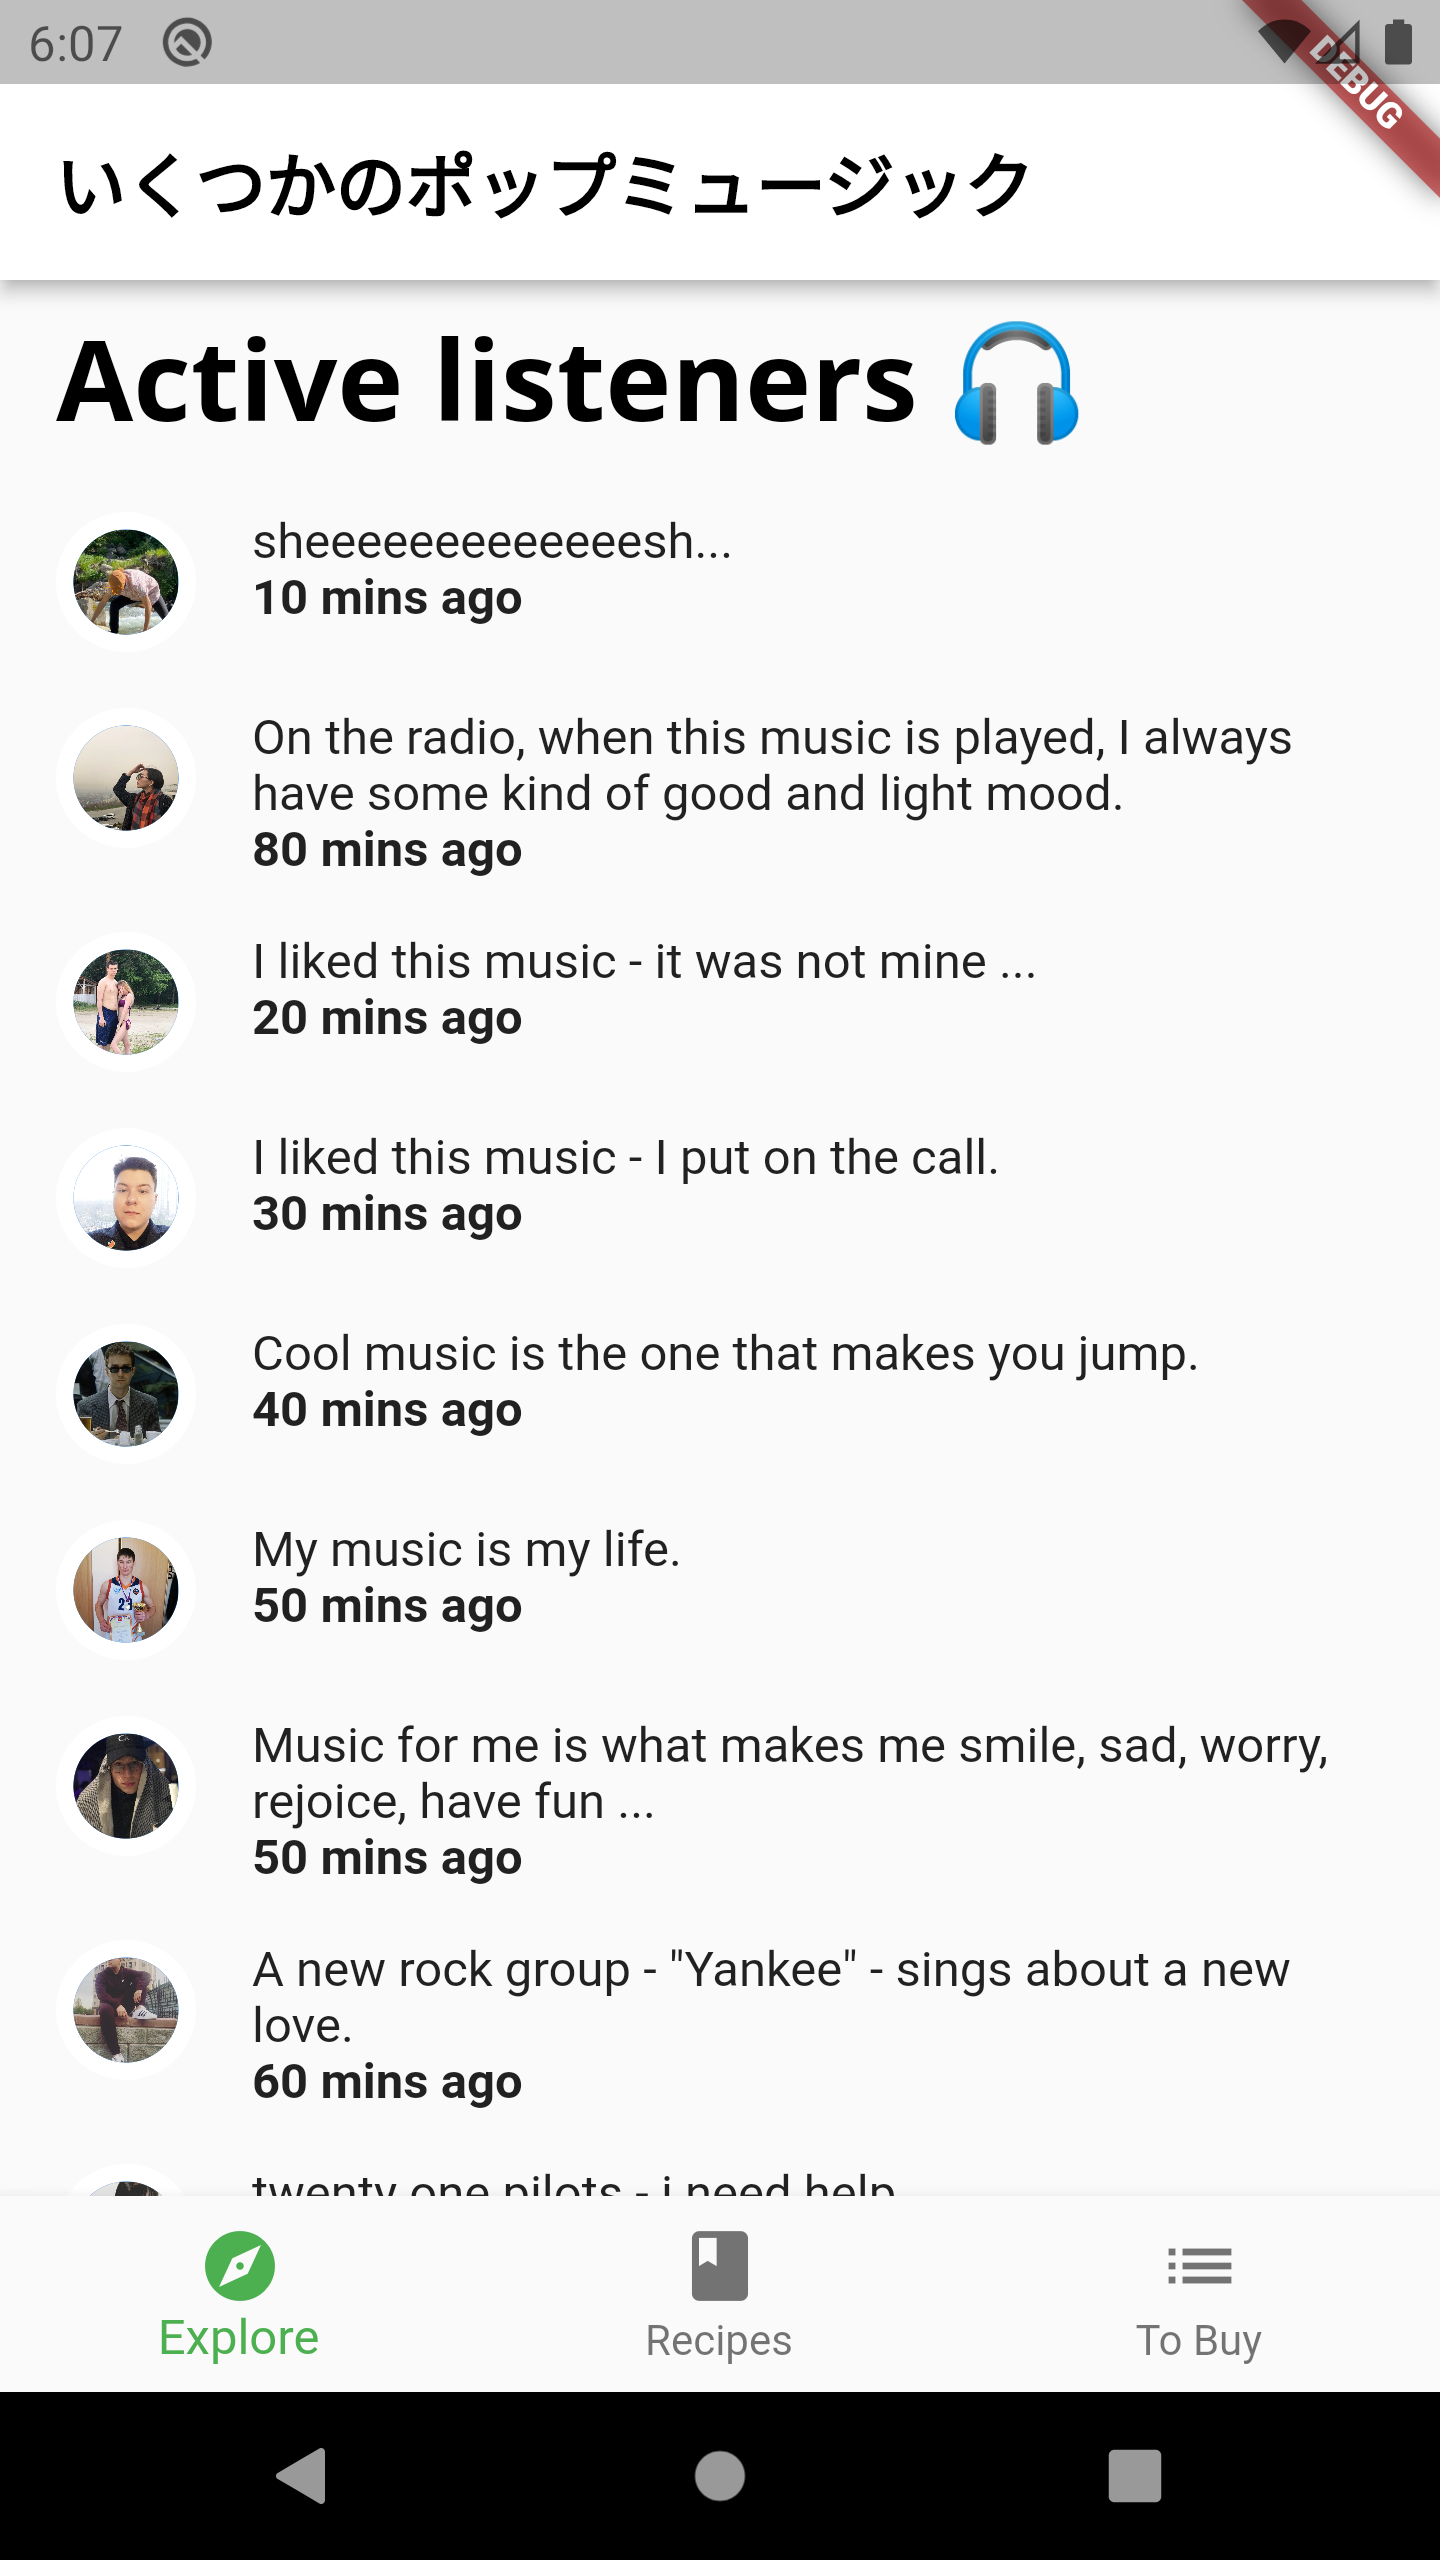
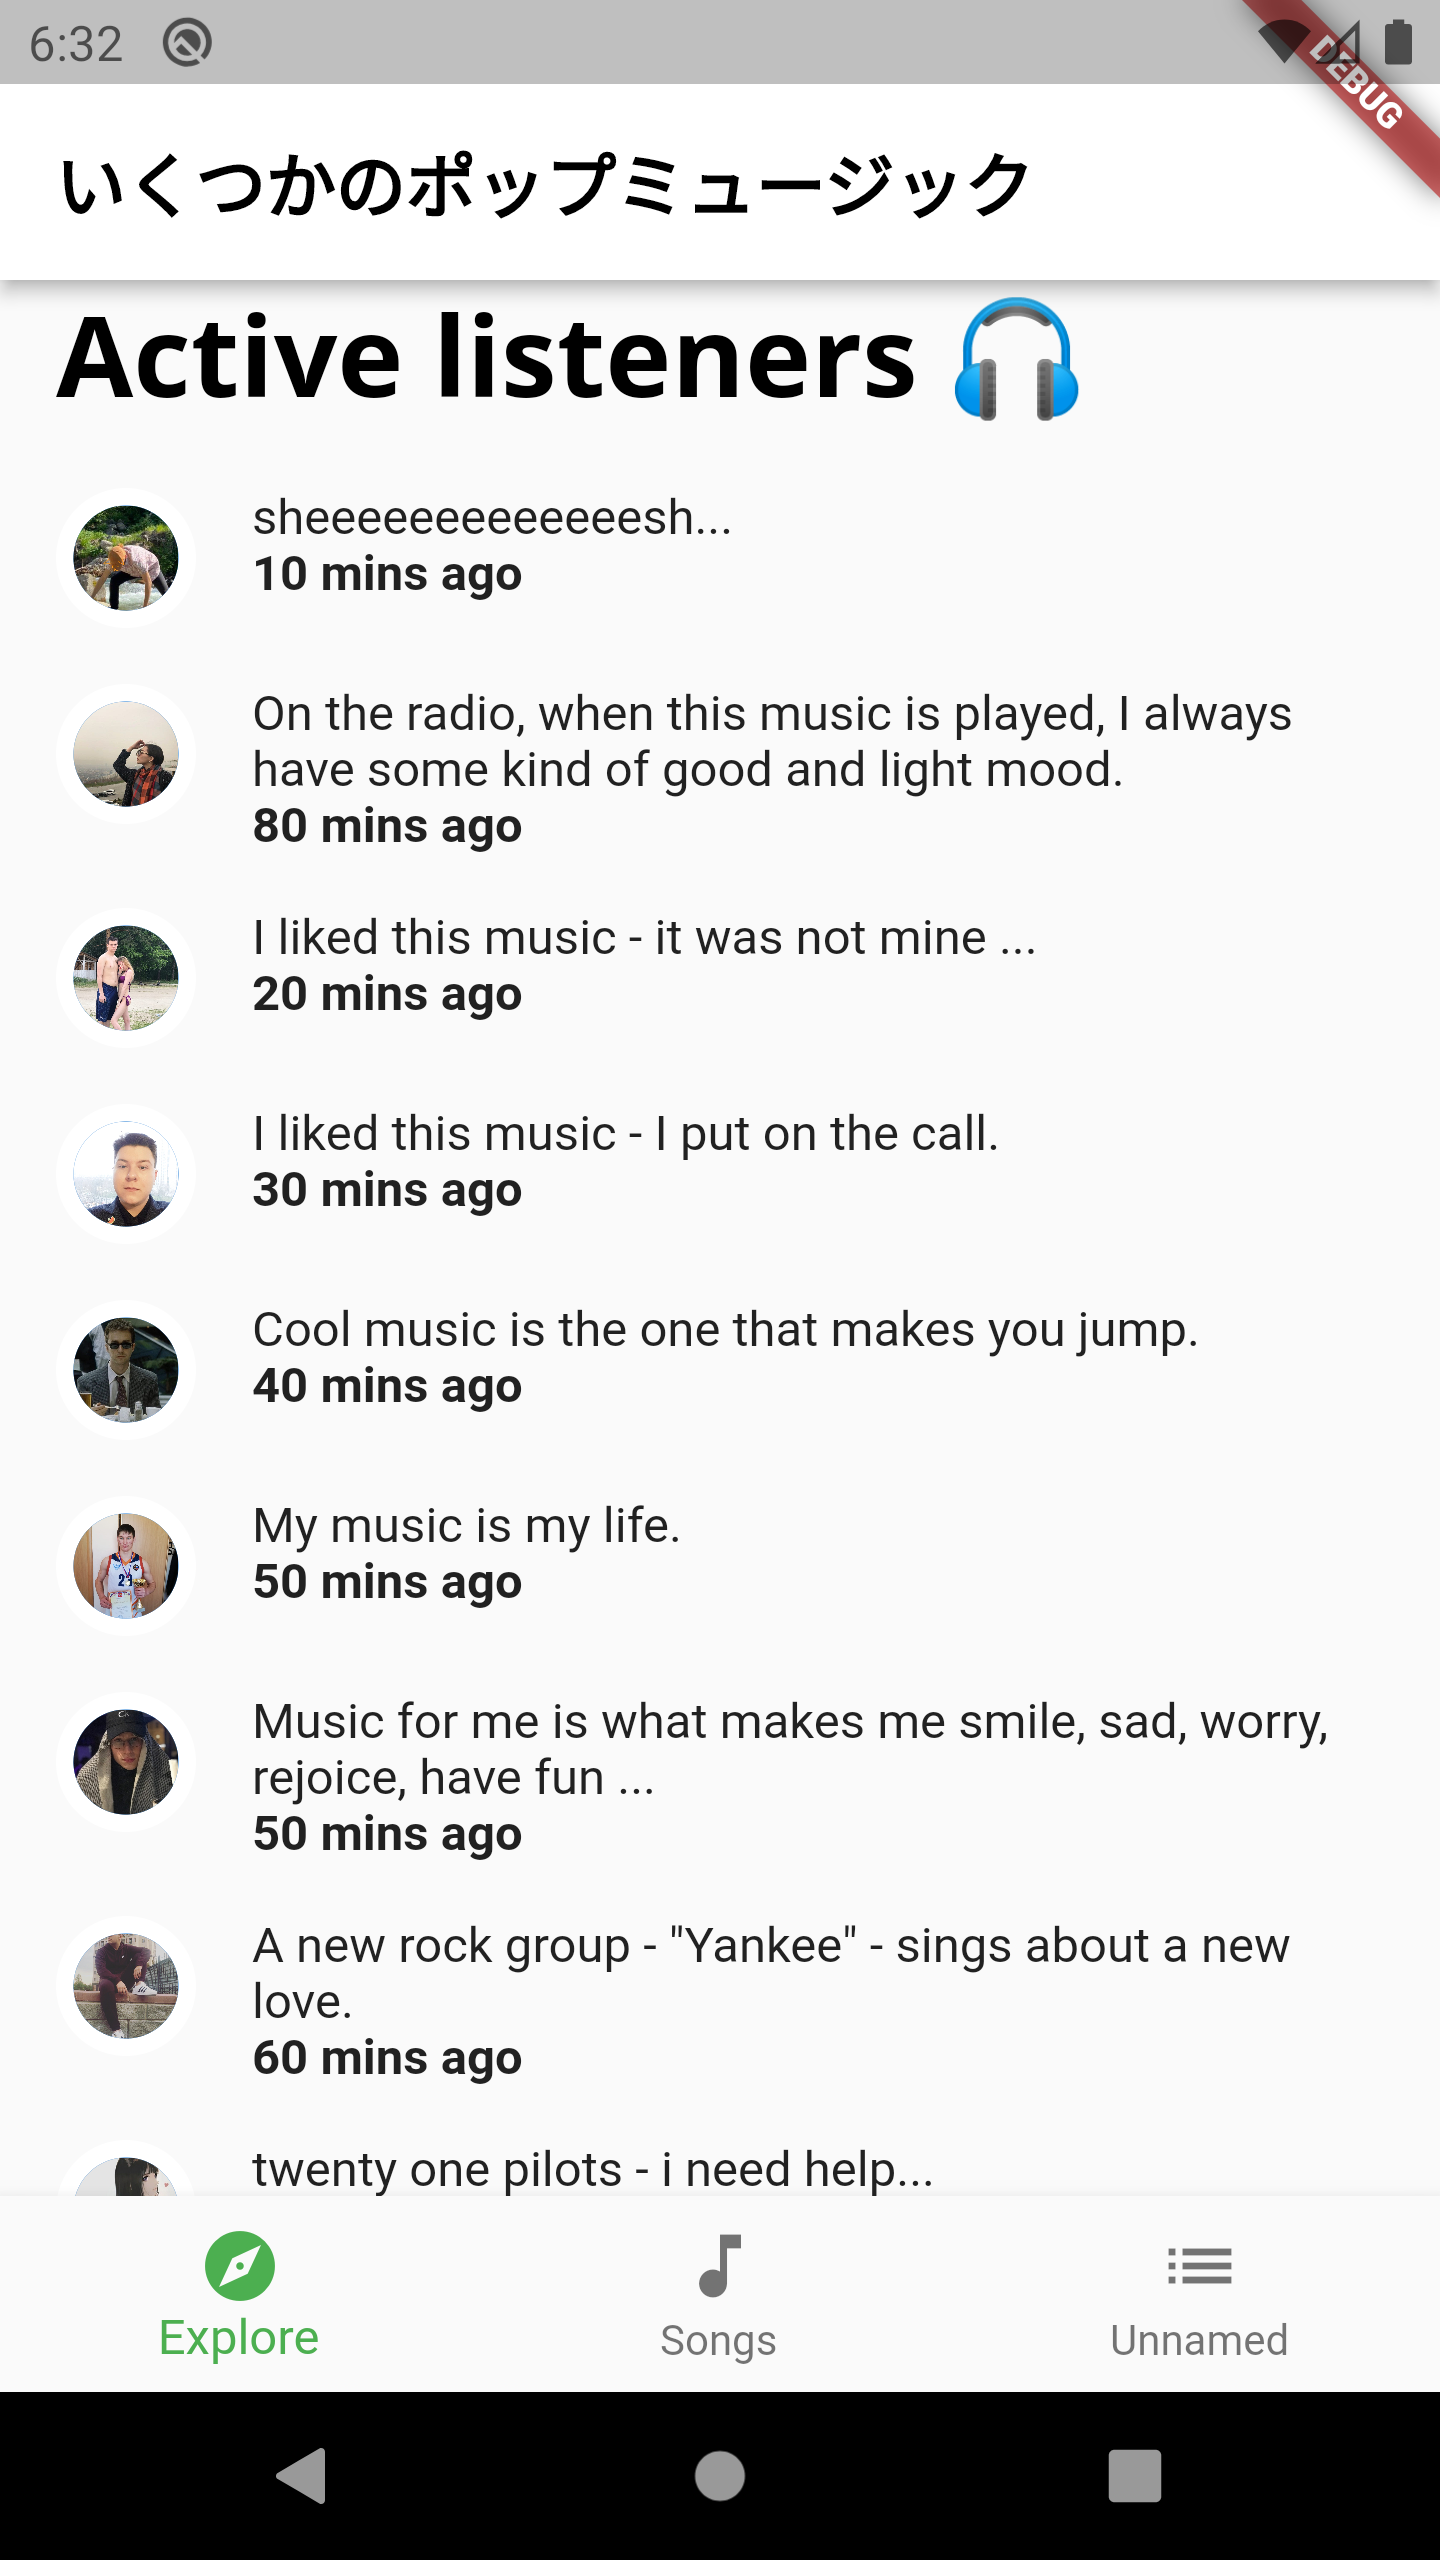
changed preview images

diff --git a/lib/home.dart b/lib/home.dart
@@ -44,12 +44,12 @@ class _HomeState extends State<Home> {
             label: 'Explore',
           ),
           const BottomNavigationBarItem(
-            icon: Icon(Icons.book),
-            label: 'Recipes',
+            icon: Icon(Icons.music_note),
+            label: 'Songs',
           ),
           const BottomNavigationBarItem(
             icon: Icon(Icons.list),
-            label: 'To Buy',
+            label: 'Unnamed',
           ),
         ],
       ),
